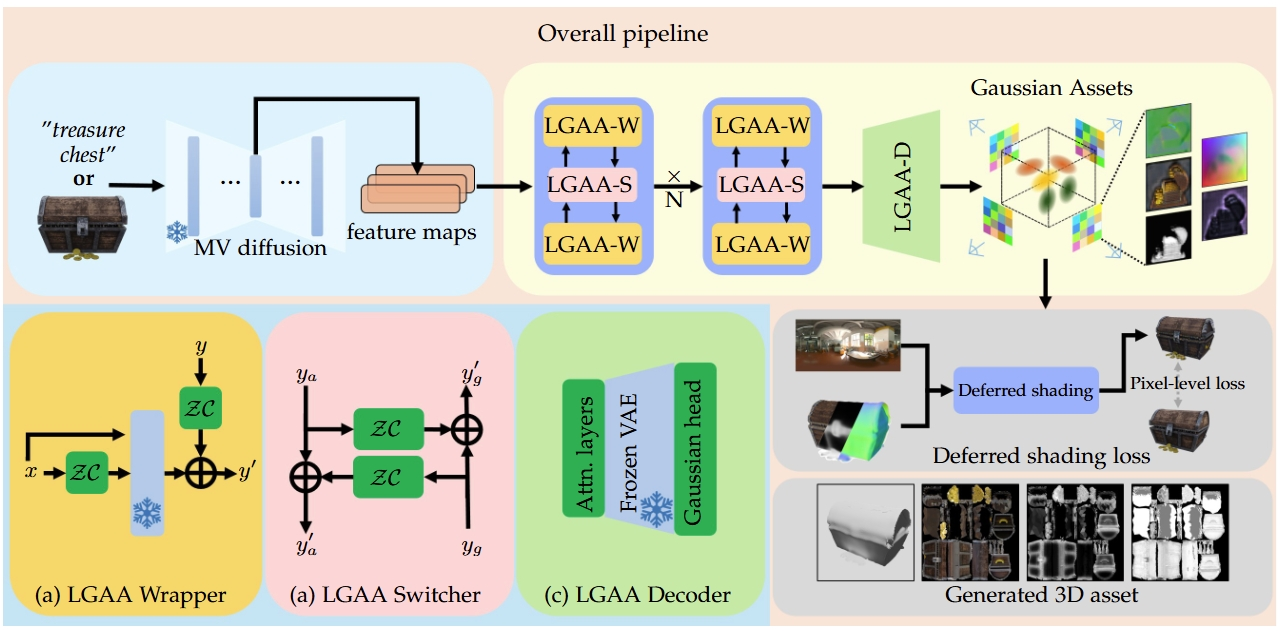
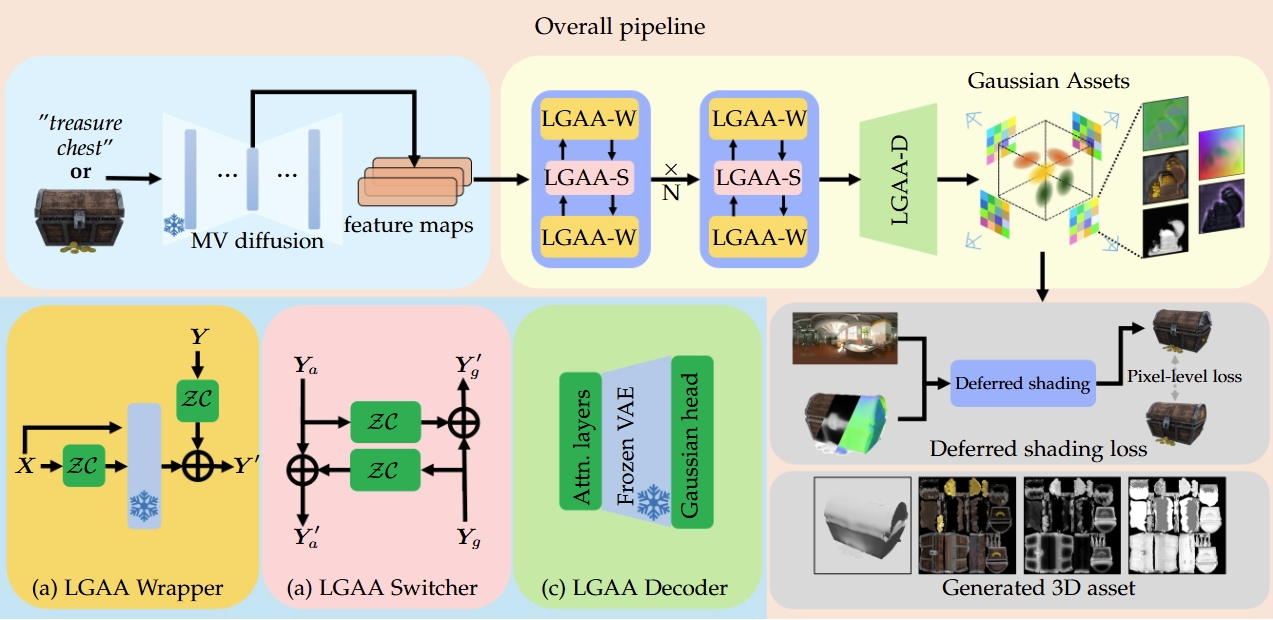
update abs & pipeline

diff --git a/dreamlifting/index.html b/dreamlifting/index.html
@@ -125,7 +125,23 @@
                     <h2 class="title is-3">Abstract</h2>
                     <div class="content has-text-justified">
                         <p>
-                            Although native 3D generation has progressed rapidly, end-to-end synthesis of relightable 3D assets still lags behind, chiefly because of the substantial representational gap between geometry and texture. Current methods either depend on 2D diffusion models to produce texture maps or collapse them into a single RGB atlas, both of which limit downstream applicability. To leverage the rich texture priors and implicit geometric cues in multiview (MV) diffusion models, we propose the novel Lightweight Gaussian Asset Adapter module (LGAA), a feed-forward module that elevates pre-trained MV diffusion models to full 3D asset generators. LGAA clones and freezes the original layers, injects zero-initialized convolutional layers to adapt the priors, and appends a Gaussian-asset head that directly outputs PBR-ready 3D assets. This modular design preserves and fuses multiview knowledge within a unified framework, and its performance scales with the capacity of the underlying base model. Because geometry and materials are produced simultaneously, supervision can rely solely on rendered images, eliminating the need for large-scale native 3D datasets; in practice we train LGAA with only 69 K multiview rendered images. We further introduce deferred-shading supervision that aligns G-buffer channels with RGB outputs, ensuring photorealistic rendering and higher-quality PBR materials. Based on our LGAA,we further propose a dedicated post-processing stage that converts the predicted Gaussian assets into high-quality, relightable mesh assets. Extensive quantitative and qualitative results demonstrate that LGAA is compatible with both text- and image-conditioned MV diffusion models and consistently benefits from stronger backbones.
+                            Although native 3D generation approaches show promising potential for 3D shape creation, they lack the ability to synthesize
+                            high-quality physically based rendering (PBR) materials simultaneously, limiting the usability of the resulting 3D assets. 
+                            We observe that current multiview (MV) diffusion models are capable of generating 3D consistent appearance and PBR materials, 
+                            indicating that MV diffusion models possess rich geometric and PBR material priors. In this paper, we present 
+                            Lightweight Gaussian Asset Adapter (LGAA), a novel framework that adaptively fuses the rich priors in MV diffusion models 
+                            into an unified system for the simultaneous generation of geometry and PBR materials in the form of 2D Gaussian Splatting. 
+                            Specifically, the LGAA features a modular design, which adaptively fuses pre-trained priors with the LGAA Wrapper, 
+                            aligns geometry and PBR material priors via the LGAA Switcher, and produces pixel-aligned Gaussian splat assets with the LGAA Decoder. 
+                            To further enhance asset usability, a dedicated post-processing procedure is introduced to effectively extract high-quality, 
+                            relightable mesh assets for downstream applications. The modular design ensures compatibility with different base models 
+                            and performance scaling with stronger underlying base models, indicating the potential of our scheme. 
+                            Besides, our scheme leverages knowledge from pre-trained models instead of training from scratch, leading to efficient convergence 
+                            trained on merely 69k instances. Also, generating geometry with PBR materials eliminates the need for native 3D datasets, 
+                            as the supervision can be performed solely on rendered images; accordingly, we introduce image-based deferred shading supervision 
+                            that aligns G-buffer channels with RGB outputs, ensuring photorealistic rendering and high-quality PBR materials. 
+                            Extensive quantitative and qualitative experiments demonstrate the superior performance of LGAA with both text- and 
+                            image-conditioned MV diffusion models.
                         </p>
                     </div>
                 </div>
